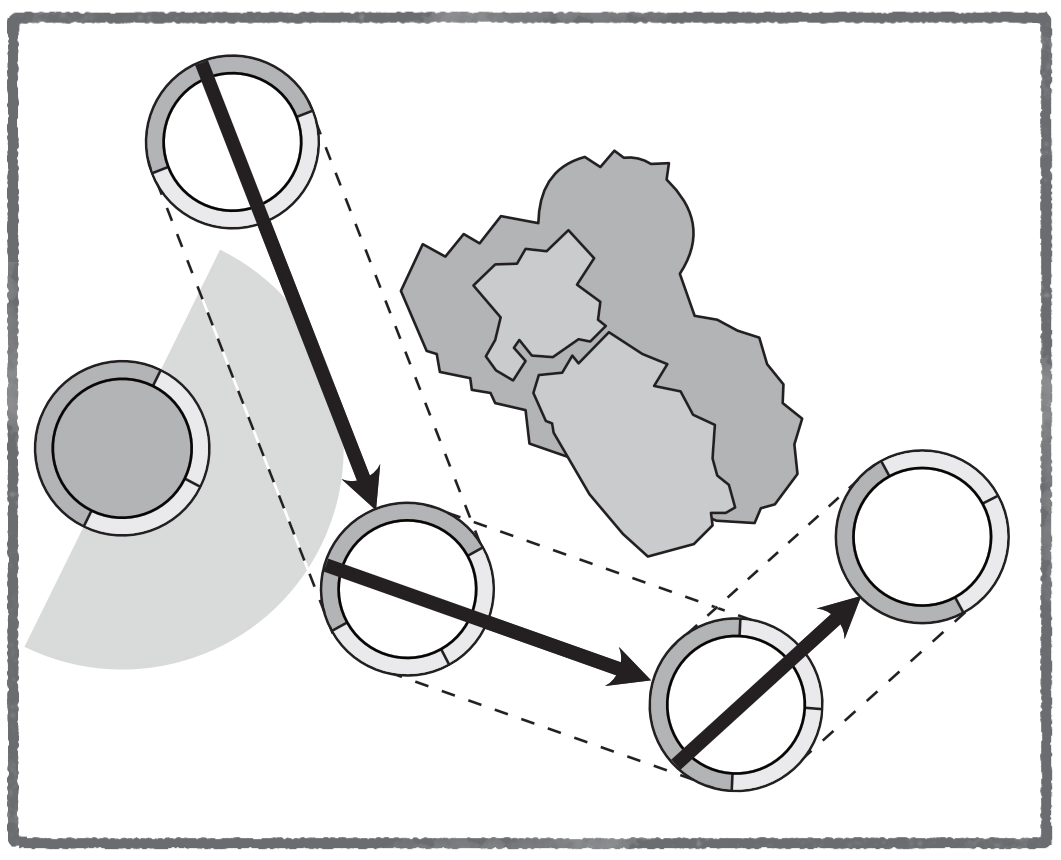
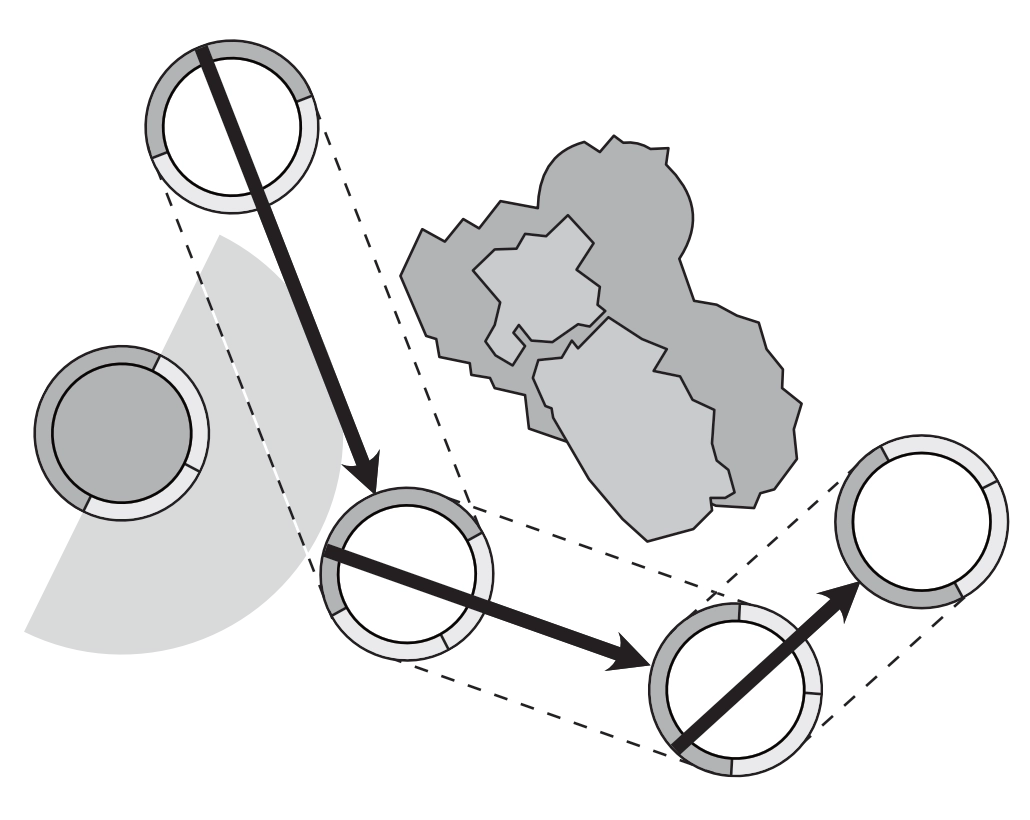
diagrams

diff --git a/quartz/styles/custom.scss b/quartz/styles/custom.scss
@@ -32,6 +32,11 @@ img {
 	margin: -.4rem 0;
 }
 
+.diagram img {
+	border: 1px solid slategrey;
+	border-radius: 5px;
+  }
+
 /*-------------------------------------------
 BLOCKQUOTES
 -------------------------------------------*/

diff --git a/content/definitions/movement/Move.md b/content/definitions/movement/Move.md
@@ -1,3 +1,7 @@
+---
+cssclasses:
+  - diagram
+---
 The model moves up to the given distance, along any path, subject to the restrictions for the action or ability that permits a move and may change its Facing at the end of the movement.
 
 Changing Facing is considered a movement, even if the model remains in the same place. During this movement, the model’s base may not pass through another model’s base or impassable terrain. If an effect allows a player to move an opponent’s model, its facing may not be changed unless the effect specifically states otherwise.

diff --git a/content/definitions/movement/Walk.md b/content/definitions/movement/Walk.md
@@ -1,3 +1,7 @@
+---
+cssclasses:
+  - diagram
+---
 The model may make a move up to the distance stated (If no distance is given, the walk is up to the model’s Move Statistic in inches) in any direction.
 
 A model performing a Walk may not move into an Enemy ZoC or move into or out of [[BtB]] with an Enemy model. If an effect allows a player to walk an opponent’s model, that player chooses its facing at the end of the walk.

diff --git a/content/definitions/terms_concepts/ZoC.md b/content/definitions/terms_concepts/ZoC.md
@@ -1,5 +1,7 @@
 ---
 title: Zone of Control (ZoC)
+cssclasses:
+  - diagram
 ---
 In Bushido, every model has a ZoC extending 1” from the edge of its base to any point within its [LoS](Line of Sight).
 Models ignore [Friendly](Enemy-Friendly.md) ZoC, but once a model enters an Enemy model’s ZoC, it may only [move](Movement.md) directly towards that model, or directly away, until it leaves the ZoC.

diff --git a/content/definitions/terms_concepts/Measuring Distances.md b/content/definitions/terms_concepts/Measuring Distances.md
@@ -1,3 +1,7 @@
+---
+cssclasses:
+  - diagram
+---
 The unit of measure in Bushido is inches.
 - [[Movement]] distances are measured from the nearest base edge to the point the model wishes to move following the route the model’s base will take.
 - Targeting  distances are measured from the nearest base edge of a model to the nearest base edge of the [[definitions/terms_concepts/Target]].

diff --git a/content/definitions/terms_concepts/Facing.md b/content/definitions/terms_concepts/Facing.md
@@ -1,3 +1,7 @@
+---
+cssclasses:
+  - diagram
+---
 A model’s Facing line is directly in the centre of the front of its base. It should be marked with a line or dot on the model’s base.
 Ninety degrees either side of a model’s facing line shows its Front Arc and should be marked on the model’s base with lines or dots.
 A model is Facing anything forward of its Front Arc.

diff --git a/content/definitions/movement/Run.md b/content/definitions/movement/Run.md
@@ -1,3 +1,7 @@
+---
+cssclasses:
+  - diagram
+---
 The model may choose a point within its LoS then rotate to face that point. The model may then make a movement in a straight line, directly towards that point.
 A model may not Run into an Enemy model’s ZoC, into [[BtB]] with an Enemy model, or change its Facing after the movement.
 

diff --git a/content/definitions/movement/Charge.md b/content/definitions/movement/Charge.md
@@ -1,3 +1,7 @@
+---
+cssclasses:
+  - diagram
+---
 The model Targets an Enemy model, moving up to double its Move Statistic towards that model in a straight line which would bring its base into contact with the Target’s base or ZoC.
 
 During this movement, it may not contact an enemy ZoC other than the Target’s.

diff --git a/content/definitions/abilities/Forceback Attack.md b/content/definitions/abilities/Forceback Attack.md
@@ -1,2 +1,8 @@
+---
+cssclasses:
+  - diagram
+---
 If the Attack is successful, move the Defender 1” directly away from the Attacker, then move the Attacker 1” directly towards the Defender.
 The Defender suffers half the wounds from the Damage Roll caused by this Attack.
+
+![[special-forceback_attack.webp]]

diff --git a/content/definitions/abilities/Sidestep Attack.md b/content/definitions/abilities/Sidestep Attack.md
@@ -1,2 +1,8 @@
+---
+cssclasses:
+  - diagram
+---
 If the Attack is successful, the Attacker leaves [[BtB]] and then move away from the Defender until the Attacker leaves The Defender’s [[ZoC]], at which point its movement ends.
 The Attacker makes no damage roll.
+
+![[special-sidestep_attack.webp]]

diff --git a/content/definitions/abilities/Slam Attack.md b/content/definitions/abilities/Slam Attack.md
@@ -1,2 +1,8 @@
+---
+cssclasses:
+  - diagram
+---
 If the Attack is successful, the Defender is moved 3” directly away from the Attacker and becomes [[Prone]].
 The Defender suffers half the wounds from the Damage Roll caused by this Attack.
+
+![[special-slam_attack.webp]]

diff --git a/content/definitions/movement/Place.md b/content/definitions/movement/Place.md
@@ -1,3 +1,7 @@
+---
+cssclasses:
+  - diagram
+---
 Placing a model is not considered Movement.
 Just pick up the model and place it in its new permitted location.
 It does not have a move path, and it ignores ZoC, models and terrain between it, and its final location.
